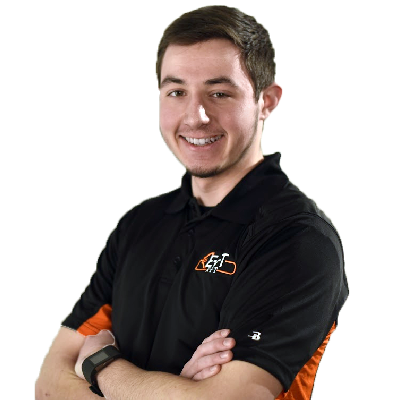
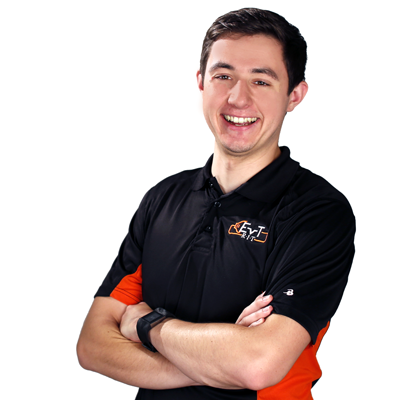
Stashed some other old stuff and updated officer pictures correctly (I think)

diff --git a/index.html b/index.html
@@ -255,7 +255,7 @@ layout: default
             </div><!--slide item-->
 
             <div class="ms-slide ">
-                <img src="assets/masterslider/style/blank.gif" data-src="assets/img/team/missing-image-400x400.png"
+                <img src="assets/masterslider/style/blank.gif" data-src="assets/img/team/Dan_small.png"
                      alt="Daniel Shapiro"/>
 
                 <div class="ms-info text-center">
@@ -266,7 +266,7 @@ layout: default
             </div><!--slide item-->
 
             <div class="ms-slide ">
-                <img src="assets/masterslider/style/blank.gif" data-src="assets/img/team/missing-image-400x400.png"
+                <img src="assets/masterslider/style/blank.gif" data-src="assets/img/team/Ben_small.png"
                      alt="Ben Stewart"/>
 
                 <div class="ms-info text-center">
@@ -287,7 +287,7 @@ layout: default
                 </div>
             </div><!--slide item-->
             <div class="ms-slide">
-                <img src="assets/masterslider/style/blank.gif" data-src="assets/img/team/missing-image-400x400.png"
+                <img src="assets/masterslider/style/blank.gif" data-src="assets/img/team/Shane_small.png"
                      alt="Shane Snover"/>
 
                 <div class="ms-info text-center">
